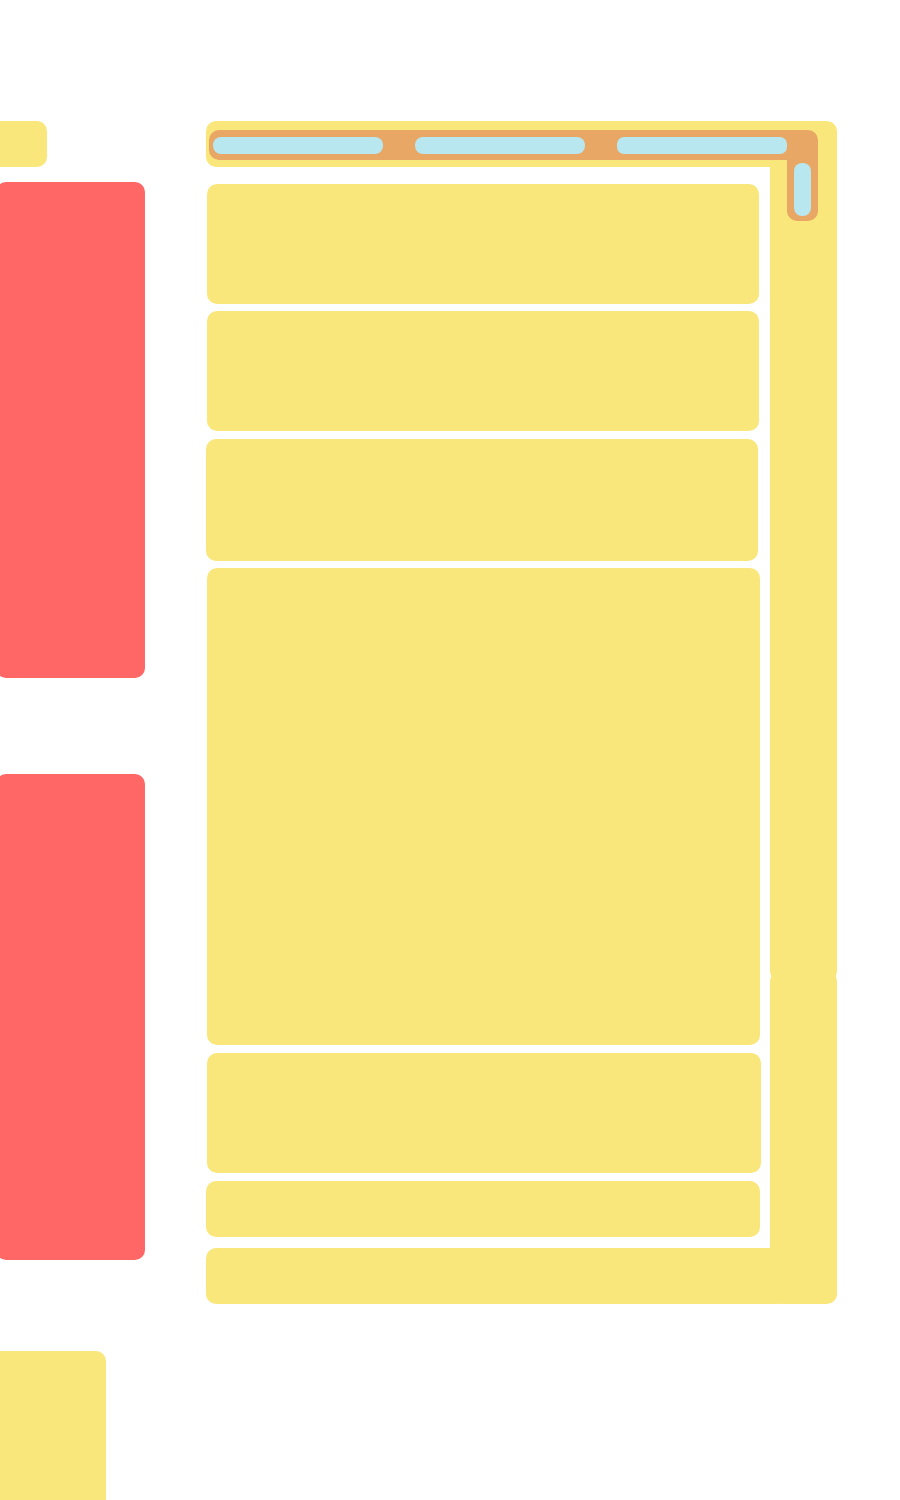
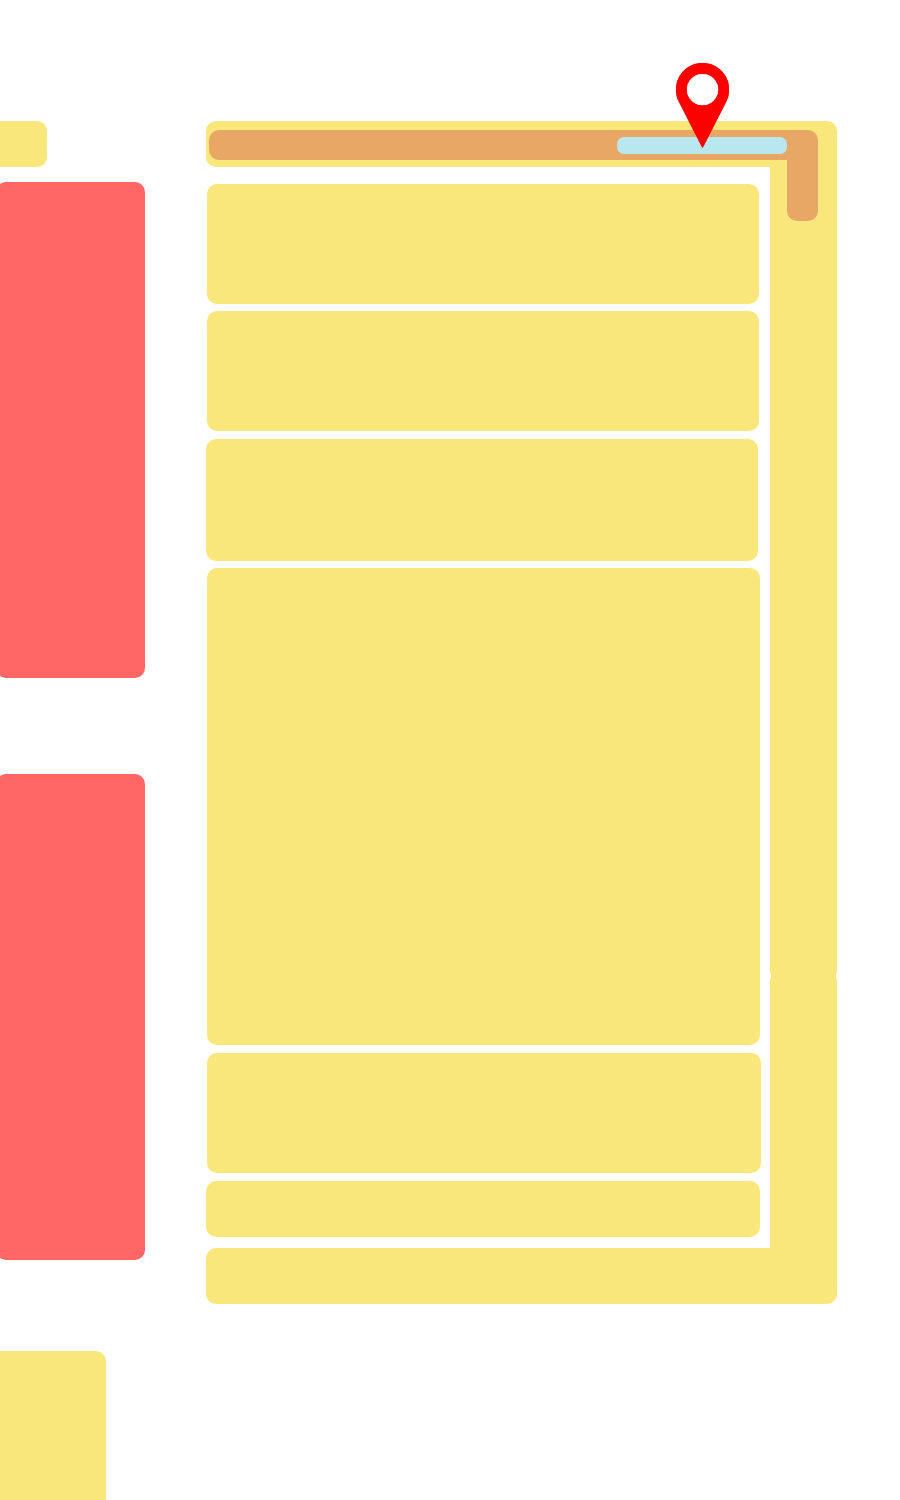
pin.png

diff --git a/style.css b/style.css
@@ -272,9 +272,104 @@
       top: 971px;
       width: 67px;
       height: 333px;
-      z-index: 740;
+      z-index: 740; 
+  }
+
+
+
+  .eastern {
+    visibility: hidden;    
+    position: absolute;
+    left: 0px;
+    top: 0px;
+    width: 3840px;
+    height: 1782px;
+    z-index: 761;
+
+  }
+
+
+  .predmety-lichnoy-gigieny__east_dop {
+    border-radius: 10px;
+    background-color: rgb(232, 167, 101);
+    position: absolute;
+    left: 3587px;
+    top: 130px;
+    width: 31px;
+    height: 91px;
+    z-index: 801;
+  }
+
+
+  .predmety-lichnoy-gigieny__east {
     
-    
+    border-radius: 10px;
+    background-color: rgb(232, 167, 101);
+    position: absolute;
+    left: 3009px;
+    top: 130px;
+    width: 600px;
+    height: 30px;
+    z-index: 799;
+  }
+
+
+  .napkins {
+    border-radius: 10px;
+    background-color: rgb(184, 231, 239);
+    position: absolute;
+    left: 3013px;
+    top: 137px;
+    width: 170px;
+    height: 17px;
+    z-index: 926;
+  }
+
+  .paper-towels {
+    border-radius: 10px;
+    background-color: rgb(184, 231, 239);
+    position: absolute;
+    left: 3215px;
+    top: 137px;
+    width: 170px;
+    height: 17px;
+    z-index: 927;
+  }
+
+  .toilet-paper {
+    border-radius: 7px;
+    background-color: rgb(184, 231, 239);
+    position: absolute;
+    left: 3417px;
+    top: 137px;
+    width: 170px;
+    height: 17px;
+    z-index: 932;
+  }
+
+  .toilet-paper__dop {
+    border-radius: 10px;
+    background-color: rgb(184, 231, 239);
+    position: absolute;
+    left: 3594px;
+    top: 163px;
+    width: 17px;
+    height: 53px;
+    z-index: 933;
+  }
+
+
+  .cosmetics-and-hygiene {
+    font-size: 30px;
+    font-family: "Bahnschrift";
+    color: rgb(0, 0, 0);
+    font-weight: bold;
+    line-height: 1.2;
+    margin-left: 25%;
+    padding: 5px;
+    width: 300px;
+    height: 21px;
+  
   }
 
   .western__plates {
@@ -562,99 +657,16 @@
     z-index: 18;
   }
 
+.pin {
+  position: absolute;
+  left: 25%;
+  top: -74px;
+}
 
 
 
-
-  .predmety-lichnoy-gigieny__east_dop {
-    border-radius: 10px;
-    background-color: rgb(232, 167, 101);
-    position: absolute;
-    left: 3587px;
-    top: 130px;
-    width: 31px;
-    height: 91px;
-    z-index: 801;
-  }
-
-
-  .predmety-lichnoy-gigieny__east {
-    
-    border-radius: 10px;
-    background-color: rgb(232, 167, 101);
-    position: absolute;
-    left: 3009px;
-    top: 130px;
-    width: 600px;
-    height: 30px;
-    z-index: 799;
-  }
-
-
-  .napkins {
-    border-radius: 10px;
-    background-color: rgb(184, 231, 239);
-    position: absolute;
-    left: 3013px;
-    top: 137px;
-    width: 170px;
-    height: 17px;
-    z-index: 926;
-  }
-
-  .paper-towels {
-    border-radius: 10px;
-    background-color: rgb(184, 231, 239);
-    position: absolute;
-    left: 3215px;
-    top: 137px;
-    width: 170px;
-    height: 17px;
-    z-index: 927;
-  }
-
-  .toilet-paper {
-    border-radius: 7px;
-    background-color: rgb(184, 231, 239);
-    position: absolute;
-    left: 3417px;
-    top: 137px;
-    width: 170px;
-    height: 17px;
-    z-index: 932;
-  }
-
-  .toilet-paper__dop {
-    border-radius: 10px;
-    background-color: rgb(184, 231, 239);
-    position: absolute;
-    left: 3594px;
-    top: 163px;
-    width: 17px;
-    height: 53px;
-    z-index: 933;
-  }
-
-
-  .cosmetics-and-hygiene {
-    font-size: 30px;
-    font-family: "Bahnschrift";
-    color: rgb(0, 0, 0);
-    font-weight: bold;
-    line-height: 1.2;
-    margin-left: 25%;
-    padding: 5px;
-    
   
-    width: 300px;
-    height: 21px;
-  
-  }
 
-
-  .test1 {
-    display: none;
-  }
   
   
   

diff --git a/index.html b/index.html
@@ -15,8 +15,25 @@
         <div class="cashbox">
             <div class="cashbox__plate_left"></div>
             <div class="cashbox__plate_green"></div>
-            <div class="cashbox__plate_rignt"></div>
+            <div class="cashbox__plate_rignt"></div> 
         </div>
+
+
+        <div class="eastern__plates">
+            <div class="household-chemicals"></div>
+            <div class="stationery"></div>
+            <div class="animal-feed"></div>
+            <div class="electronics"></div>
+            <div class="auto"></div>
+            <div class="country-house"></div>
+            <div class="household-chemicals__rear">
+            <div class="cosmetics-and-hygiene">Косметика и гигиена</div>
+            </div>
+            <div class="books-press-postcards__rear"></div>
+            <div class="household-chemicals__rear_left"></div>
+            <div class="country-house__rear"></div>
+            <div class="electronics__rear"></div>
+            </div>
 
         <div class="south__plate">
             <div class="nuts-driedfruits"></div>
@@ -31,25 +48,13 @@
             <div class="promotions__left"></div>
         </div>
 
-        <div class="eastern__plates">
-            <div class="household-chemicals"></div>
-            <div class="stationery"></div>
-            <div class="animal-feed"></div>
-            <div class="electronics"></div>
-            <div class="auto"></div>
-            <div class="country-house"></div>
-            <div class="household-chemicals__rear">
-                <div class="cosmetics-and-hygiene">Косметика и гигиена</div>
-            </div>
-            <div class="books-press-postcards__rear"></div>
-            <div class="household-chemicals__rear_left"></div>
-            <div class="country-house__rear"></div>
-            <div class="electronics__rear"></div>
-            <div class="predmety-lichnoy-gigieny"></div>
+        <div class="eastern">   
+            <div class="predmety-lichnoy-gigieny" style="visibility: visible;">
             <div class="predmety-lichnoy-gigieny__east_dop"></div>
             <div class="predmety-lichnoy-gigieny__east"></div>
+        </div>
             <div class="napkins"></div>
-            <div class="paper-towels"></div>
+            <div class="paper-towels" ></div>
             <div  id="tualetnaya bumaga" class="toilet-paper"></div>
             <div class="toilet-paper__dop"></div>
 

diff --git a/index.js b/index.js
@@ -34,10 +34,10 @@ function search_elem (product) {
 
 function update_elem (str) {
    
-
+    const pin = '<img class="pin" src="./screen/pin_red.png" width="50%"  vspace="-90px" ></img>'
     const length = str.length
     const mergeStyle = str.substr(0, length - 7);
-    const result = mergeStyle + 'class="display = none"' +'></div>'
+    const result = mergeStyle + 'style="visibility: visible;">' + '\n' + pin + '</div>'
     console.log("Обновил html " + result)
     for (var i=0, len=html_read.length; i<len; i++) {
         
@@ -47,9 +47,10 @@ function update_elem (str) {
     }; 
 
     function delElem () {
+        const pin = '<img class="pin" src="./screen/pin_red.png" width="50%"  vspace="-90px" >'
         for (var i = 0, len=html_read.length; i<len; i++) {
         if ( html_read[i].match('class="display = none"') != null) 
-        return html_read[i] = `${html_read[i]}`.replace('class="display = none"', "")
+        return html_read[i] = `${html_read[i]}`.replace('class="display = none"', "").replace(pin, '')
         }    
     }
    
@@ -87,7 +88,7 @@ async function returnSide(str) {
         if (newPage === "western__plates") {
             return  {'x': 0, 'y':0, 'width': 1000, 'height': 1500};
         };
-        if (newPage === "eastern__plates") {
+        if (newPage === "eastern") {
             return {'x': 2800, 'y':0, 'width': 900, 'height': 1500};
         };
         if (newPage === "south__plate") {
